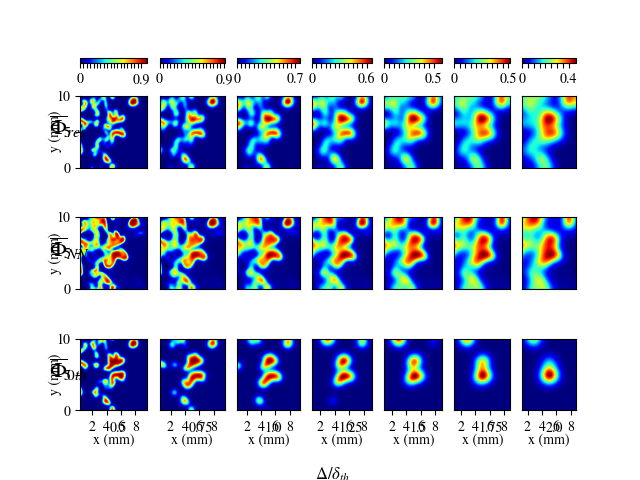
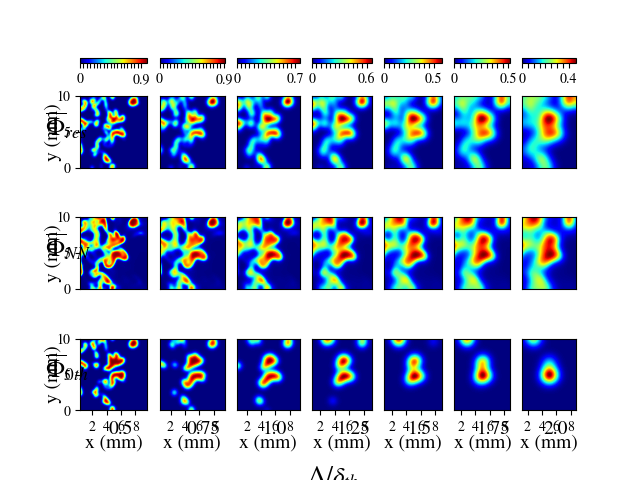
project ez

diff --git a/comparison.py b/comparison.py
@@ -146,8 +146,8 @@ def plot_comparison_graphs1():
   row_titles=["$\\overline{\\Phi}_{res}$","$\\overline{\\Phi}_{NN}$","$\\overline{\\Phi}_{0th}$"]
   #setting y-axis labels and row titles (type of analysis conducted)
   for i in range(3):
-    axs[i+1,0].text(-4, 4.5, row_titles[i], fontsize=16, fontfamily='serif')
-    axs[i+1,0].axes.set_ylabel('y (mm)', labelpad=-4)
+    axs[i+1,0].text(-4.5, 4.5, row_titles[i], fontsize=18, fontfamily='serif')
+    axs[i+1,0].axes.set_ylabel('y (mm)', labelpad=-4, fontsize=14)
   #hiding unnecessary axes
     for j in range(0,len(filter_sizes)):
       if i!=2:
@@ -157,10 +157,10 @@ def plot_comparison_graphs1():
   
   for i in range(len(filter_sizes)):
     #setting up x-axis and column titles (filter size used)
-    axs[3,i].text(s=str(filter_sizes[i]), x=4.5, y=-3)
+    axs[3,i].text(s=str(filter_sizes[i]), x=4.25, y=-3.25, fontsize=14)
     x,y =get_boundaries(filter_sizes[i])
     axs[3,i].axes.set_xticks([2,4,6,8])
-    axs[3,i].axes.set_xlabel('x (mm)',labelpad=-0.5)
+    axs[3,i].axes.set_xlabel('x (mm)',labelpad=0.5,fontsize=14)
 
     #plotting actual graphs
 
@@ -177,7 +177,7 @@ def plot_comparison_graphs1():
     axs[0,i].set_xticks(tick_pos, labels=tick_labels, minor=False)
   
   #title, fig saving, and showing
-  fig.suptitle("$\\Delta /\\delta_{th}$",x=0.52, y=0.030)
+  fig.suptitle("$\\Delta /\\delta_{th}$",x=0.52, y=0.03, fontsize=18)
   plt.savefig("Graph Comparison")
   plt.show()
 
